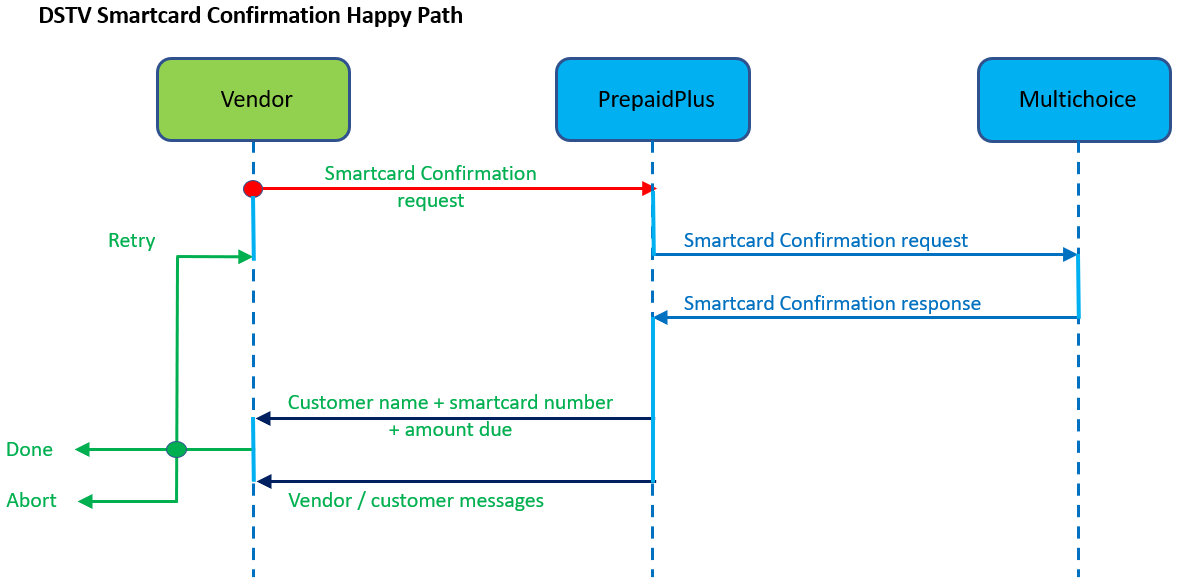
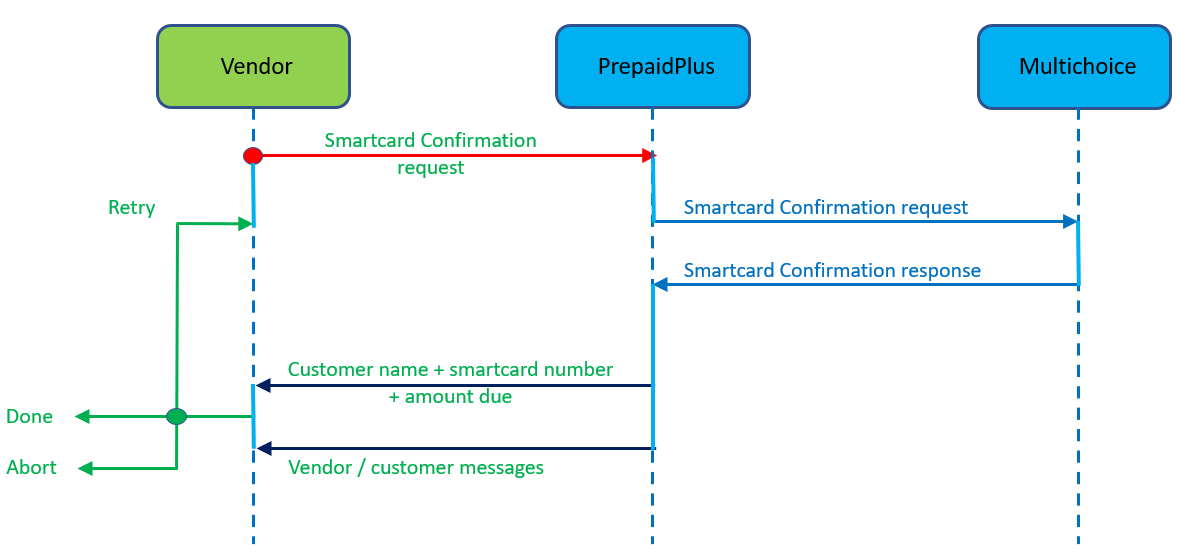
cropped pictures

diff --git a/documentation/multichoice.md b/documentation/multichoice.md
@@ -69,15 +69,11 @@ The workflow for the DSTV Smartcard Confirmation process is as presented below .
 
 The DSTV Smartcard Confirmation Vend use case sequence diagram is illustrated below.
 
-**Fig : DSTV Smartcard Confirmation Happy Path**
-
 ![dstvSmartcardHappyPath](/assets/dstvSmartConfirmationHappyPath.png)
 
 <br>
 
-## Multichoice DSTV 
-
-#### Confirm Smartcard
+###  DSTV Confirm Smartcard
 
 The ConfirmSmartcard Request is used to verify that the following are in place before accepting payment towards smartcard linked DSTV:
 
